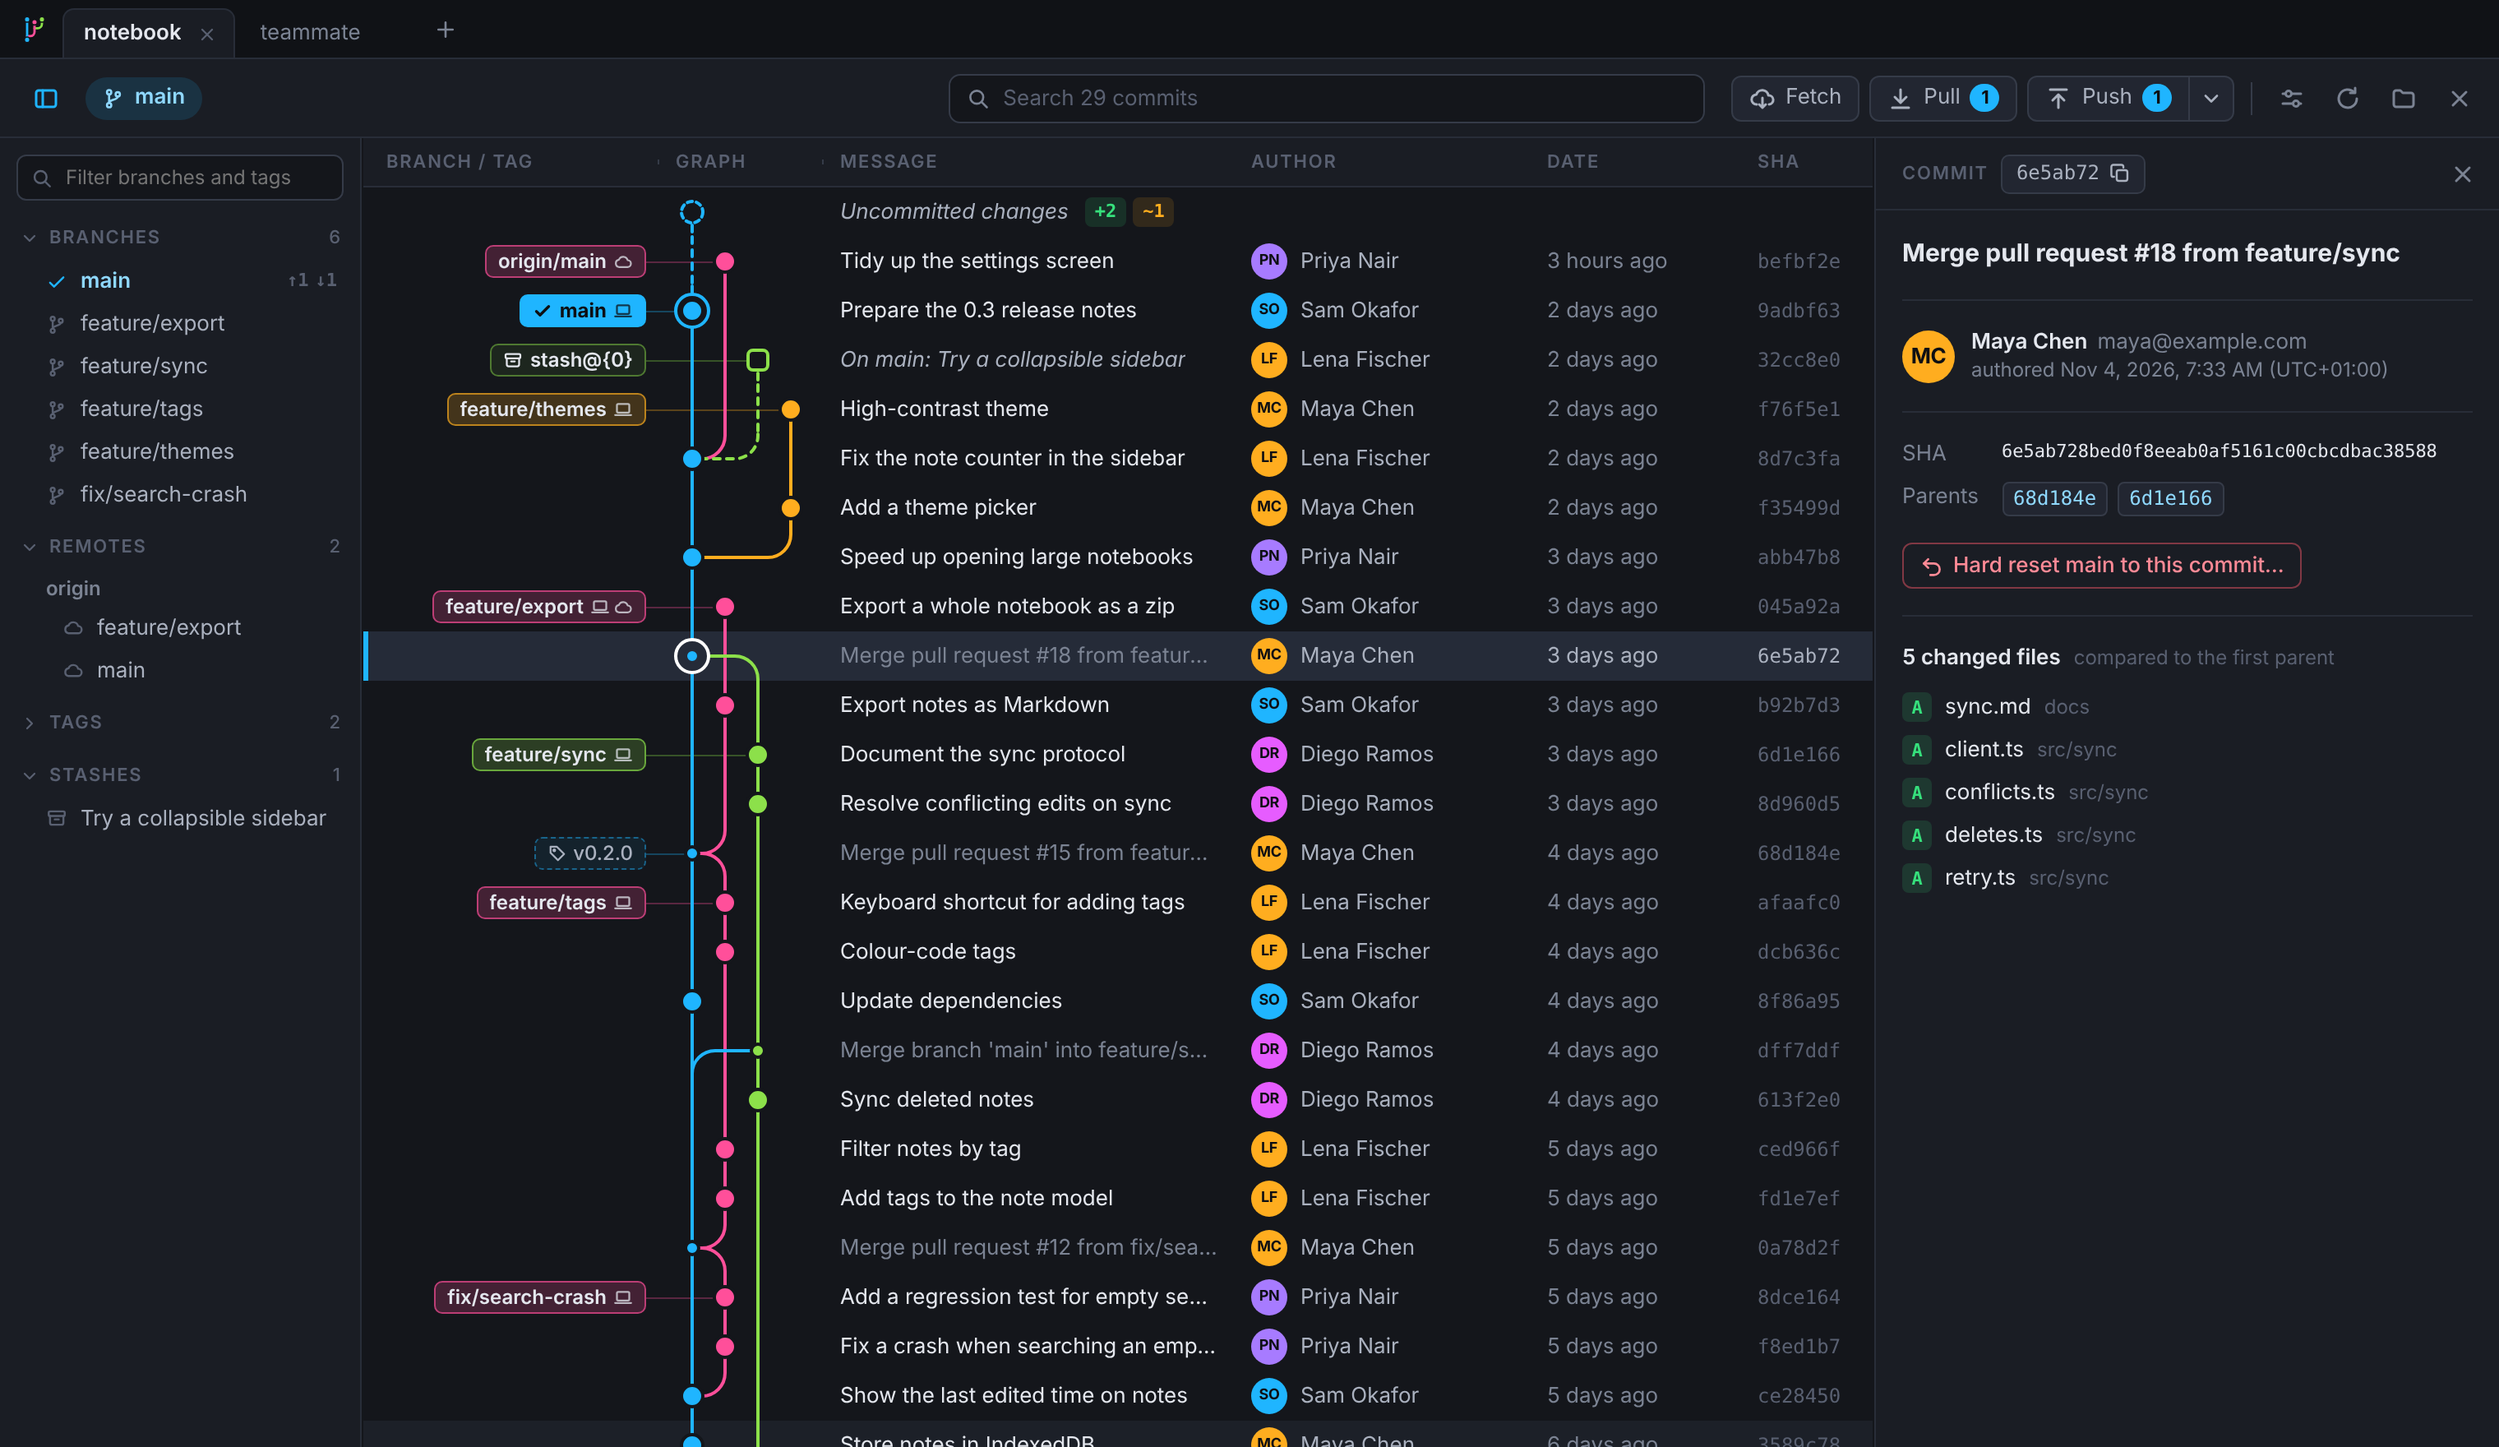
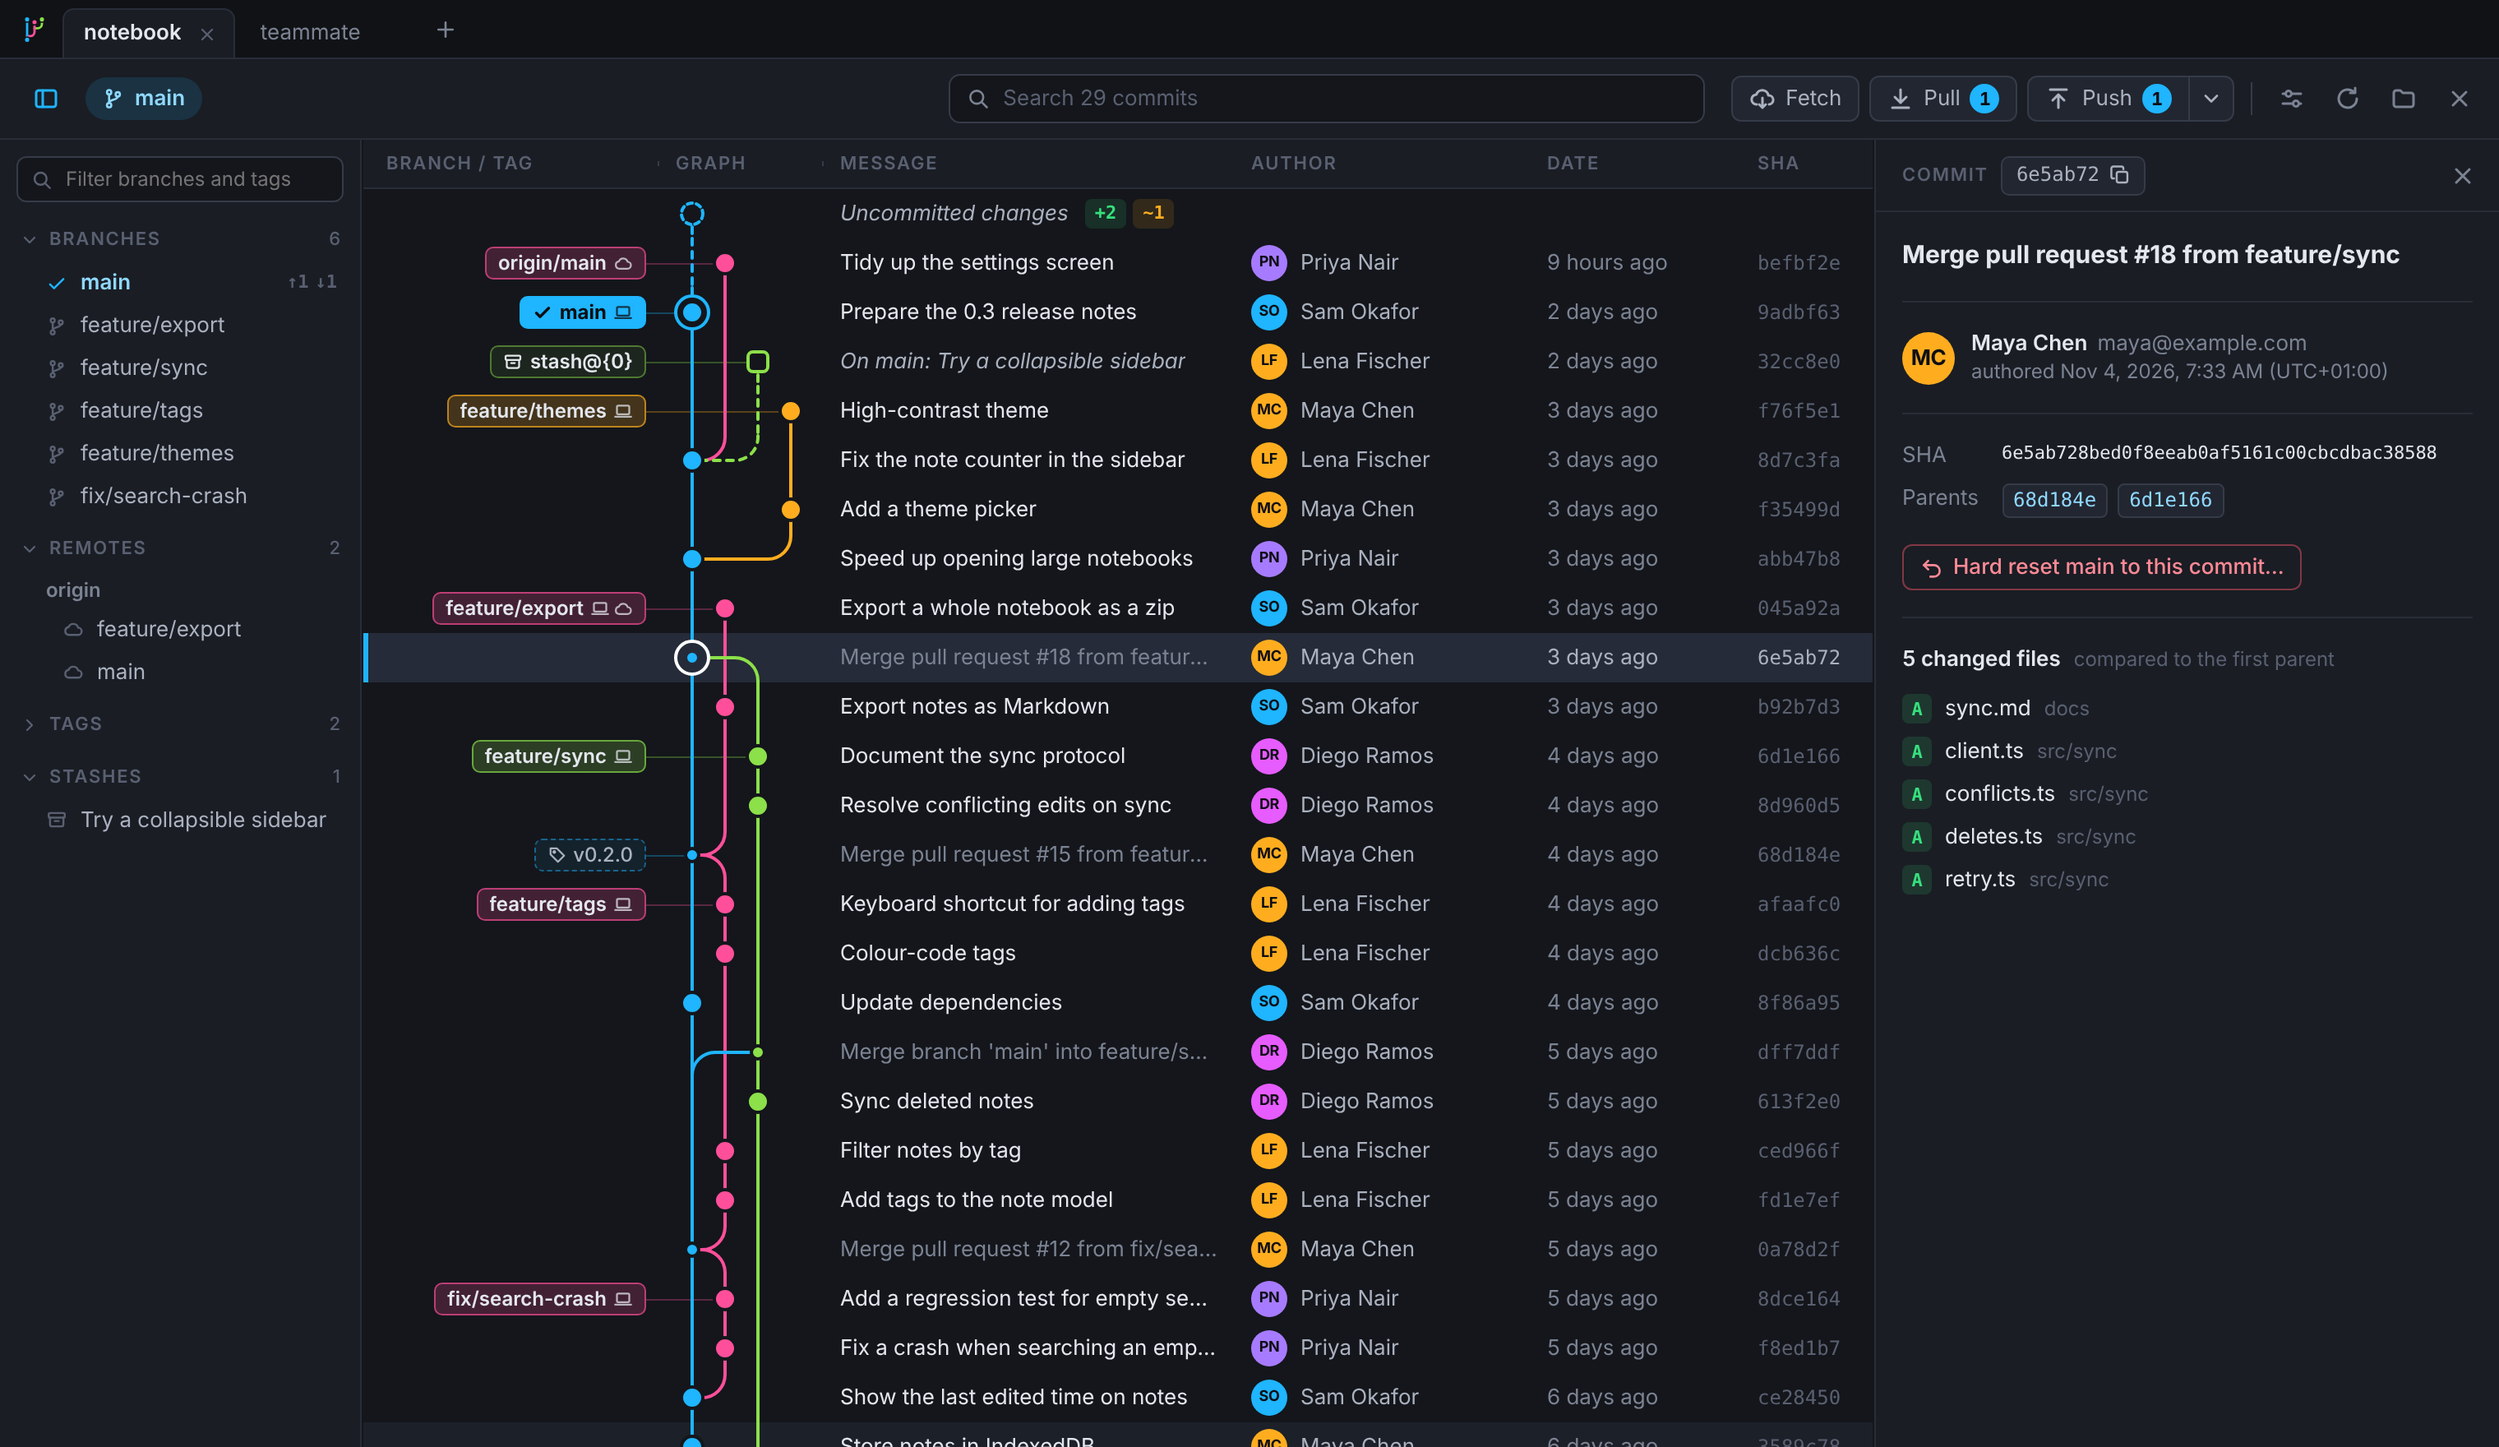
Centre the pull/push counts and tidy the conflict bar text
- The count badges are now true 18px circles, and the digits are centred
  by their visible height (text-box trim) instead of the font's line box,
  which put them up to 1.4px off depending on the font
- The toolbar is 48px inside its border, so its buttons sit on whole
  pixels and the badge text isn't rounded away from the circle's centre
- The conflict bar reads as one sentence ("Merging into main. 1 file
  with conflicts: ..."), without the wide gap after the branch name

diff --git a/src/styles.css b/src/styles.css
@@ -336,7 +336,8 @@ button:disabled {
   display: flex;
   align-items: center;
   gap: 16px;
-  height: 48px;
+  /* 48px inside the 1px border, so the buttons sit on whole pixels. */
+  height: 49px;
   padding: 0 10px 0 14px;
   border-bottom: 1px solid var(--border);
   background: var(--bg-panel);
@@ -489,15 +490,28 @@ button:disabled {
 /* Fetch / Pull / Push */
 
 .tool-button .count {
+  /* A circle, or a pill for two digits or more. */
+  display: inline-flex;
+  align-items: center;
+  justify-content: center;
+  box-sizing: border-box;
   min-width: 18px;
+  height: 18px;
   padding: 0 5px;
   border-radius: 9px;
   background: var(--accent);
   color: #0d0f13;
   font-size: 11px;
   font-weight: 700;
-  line-height: 17px;
-  text-align: center;
+  font-variant-numeric: tabular-nums;
+  line-height: 1;
+}
+
+.tool-button .count > span {
+  display: block;
+  /* Trims the line box to the top of the digits and the baseline, so centring
+     the box centres the digits themselves. */
+  text-box: trim-both cap alphabetic;
 }
 
 .split-button {
@@ -1956,14 +1970,18 @@ body.resizing * {
   border-bottom-color: rgba(255, 173, 31, 0.3);
 }
 
-.operation-title strong {
-  color: #ffd48a;
-}
-
-.operation-help {
+.operation-text {
   flex: 1;
   min-width: 200px;
   color: var(--text-secondary);
+}
+
+.operation-title {
+  color: var(--text);
+}
+
+.operation-text strong {
+  color: #ffd48a;
 }
 
 .operation-buttons {

diff --git a/src/components/Toolbar.tsx b/src/components/Toolbar.tsx
@@ -180,13 +180,21 @@ export function Toolbar(props: Props) {
         <button className="tool-button" onClick={() => props.onRemote("pull")} disabled={pullDisabled} title={pullTitle}>
           <PullIcon className={running === "pull" ? "pulse" : undefined} />
           <span className="label">Pull</span>
-          {behind > 0 && <span className="count">{behind}</span>}
+          {behind > 0 && (
+            <span className="count">
+              <span>{behind}</span>
+            </span>
+          )}
         </button>
         <div className="split-button">
           <button className="tool-button" onClick={() => props.onRemote("push")} disabled={pushDisabled} title={pushTitle}>
             <PushIcon className={running === "push" ? "pulse" : undefined} />
             <span className="label">Push</span>
-            {ahead > 0 && <span className="count">{ahead}</span>}
+            {ahead > 0 && (
+              <span className="count">
+                <span>{ahead}</span>
+              </span>
+            )}
           </button>
           <button
             ref={pushMenuButton}

diff --git a/src/components/OperationBar.tsx b/src/components/OperationBar.tsx
@@ -28,11 +28,11 @@ export function OperationBar({ operation, branch, conflicts, busy, onContinue, o
   const next = operation.kind === "merge" ? "commit" : "continue";
   return (
     <div className="operation-bar" role="status">
-      <span className="operation-title">
-        {operation.kind === "merge" ? "Merging into" : `${name[0].toUpperCase()}${name.slice(1)} in progress on`}{" "}
-        <strong>{branch}</strong>
-      </span>
-      <span className="operation-help">
+      <span className="operation-text">
+        <span className="operation-title">
+          {operation.kind === "merge" ? "Merging into" : `${name[0].toUpperCase()}${name.slice(1)} in progress on`}{" "}
+          <strong>{branch}</strong>.
+        </span>{" "}
         {conflicts > 0 ? (
           <>
             <button className="link-button" onClick={onShowFiles}>
